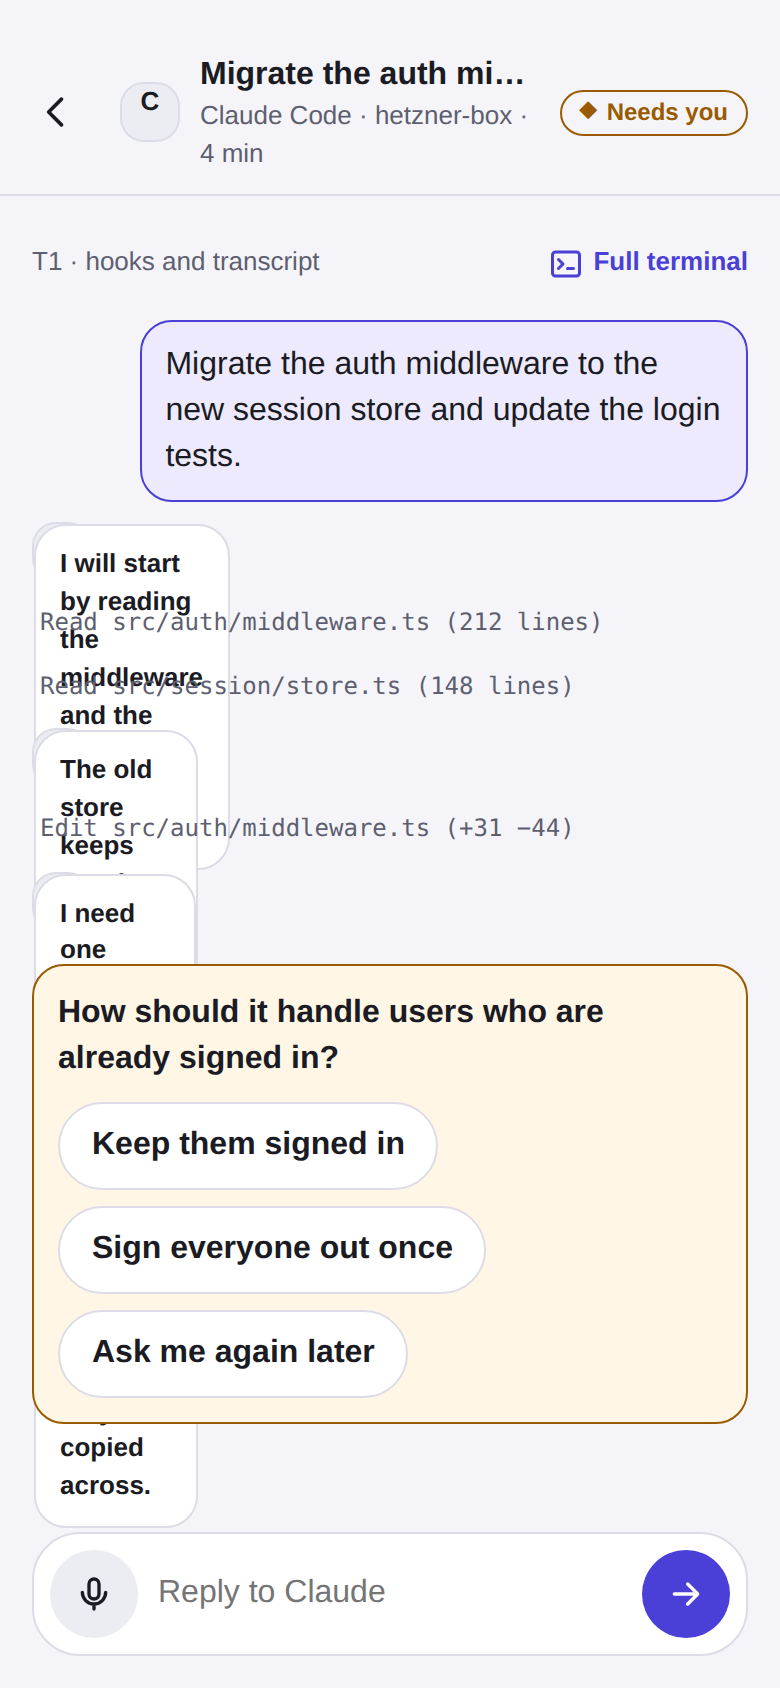
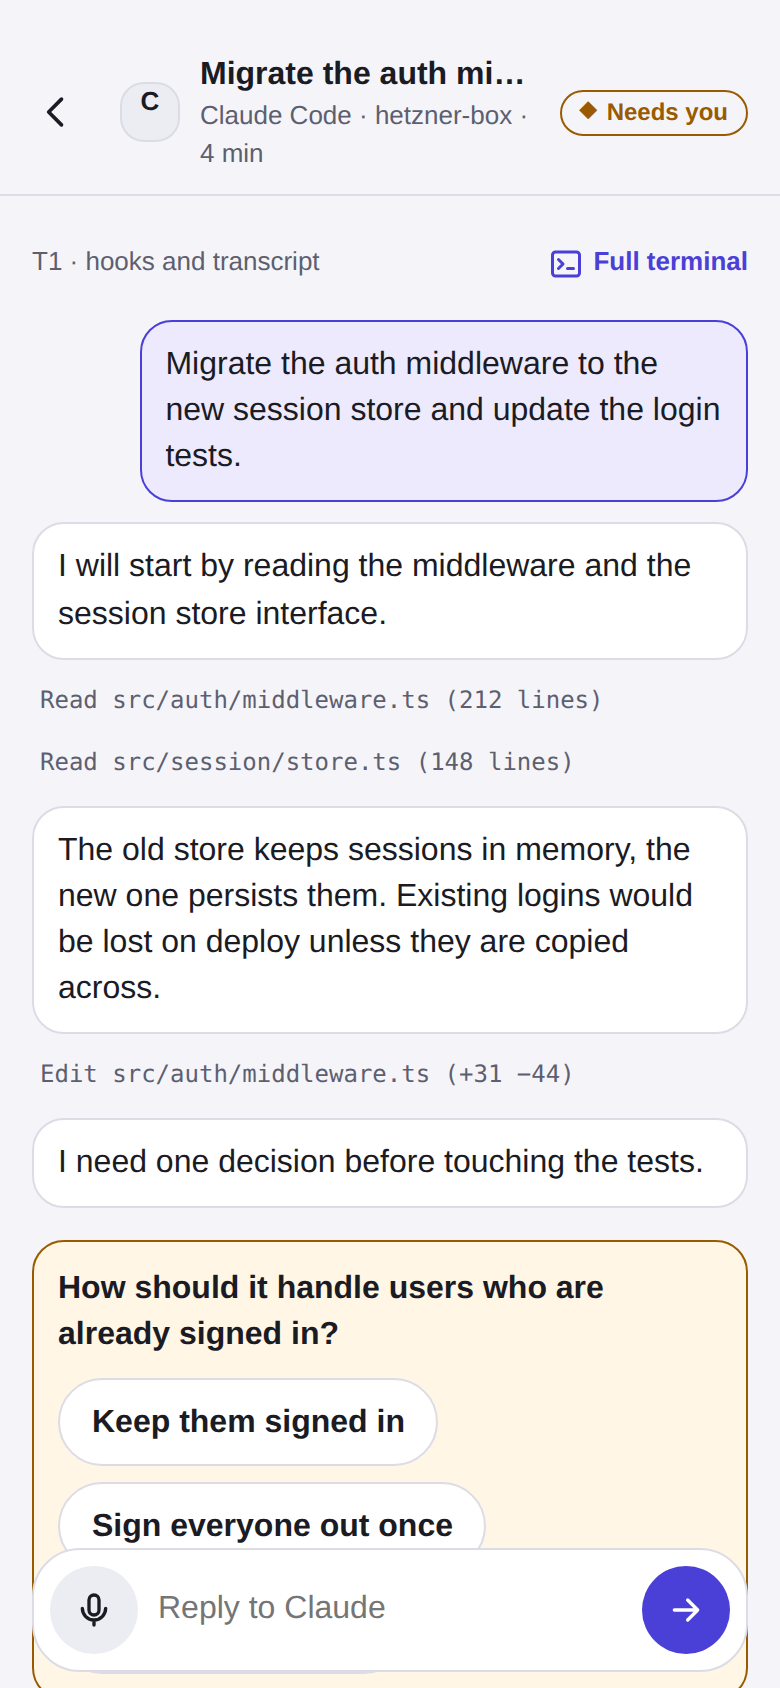
fix(ux): stop session transcript turns colliding with the agent badge style
Why: the session view overlapped its cards on all three directions because transcript turns reused the .agent class.

Changed region(s): [[0.0308, 0.3081, 0.9846, 1.0], [0.6154, 0.8934, 0.9538, 0.9858]]

diff --git a/docs/plans/assets/ux/shared/data.js b/docs/plans/assets/ux/shared/data.js
@@ -47,12 +47,12 @@ window.TB = (function () {
   };
   const transcript = [
     { who: 'you', text: 'Migrate the auth middleware to the new session store and update the login tests.' },
-    { who: 'agent', text: 'I will start by reading the middleware and the session store interface.' },
+    { who: 'bot', text: 'I will start by reading the middleware and the session store interface.' },
     { who: 'tool', text: 'Read  src/auth/middleware.ts  (212 lines)' },
     { who: 'tool', text: 'Read  src/session/store.ts  (148 lines)' },
-    { who: 'agent', text: 'The old store keeps sessions in memory, the new one persists them. Existing logins would be lost on deploy unless they are copied across.' },
+    { who: 'bot', text: 'The old store keeps sessions in memory, the new one persists them. Existing logins would be lost on deploy unless they are copied across.' },
     { who: 'tool', text: 'Edit  src/auth/middleware.ts  (+31 −44)' },
-    { who: 'agent', text: 'I need one decision before touching the tests.' },
+    { who: 'bot', text: 'I need one decision before touching the tests.' },
   ];
   const tail = [
     '  Running 212 tests',

diff --git a/docs/plans/assets/ux/shared/layout.css b/docs/plans/assets/ux/shared/layout.css
@@ -164,3 +164,7 @@ pre,code{font-family:var(--mono)}
   .composer{position:static}
 }
 @media (prefers-reduced-motion:no-preference){.opt,.q-item,.pill,.btn{transition:transform .12s ease,border-color .12s}.opt:active,.q-item:active{transform:scale(.985)}}
+
+/* Sheets are column flex with min-height: children must grow the page, never shrink and overlap. */
+.is-sheet .main>*,.transcript>*,.decision>*,.options>*{flex-shrink:0}
+.tail.term{flex:1 0 auto;min-height:240px}
